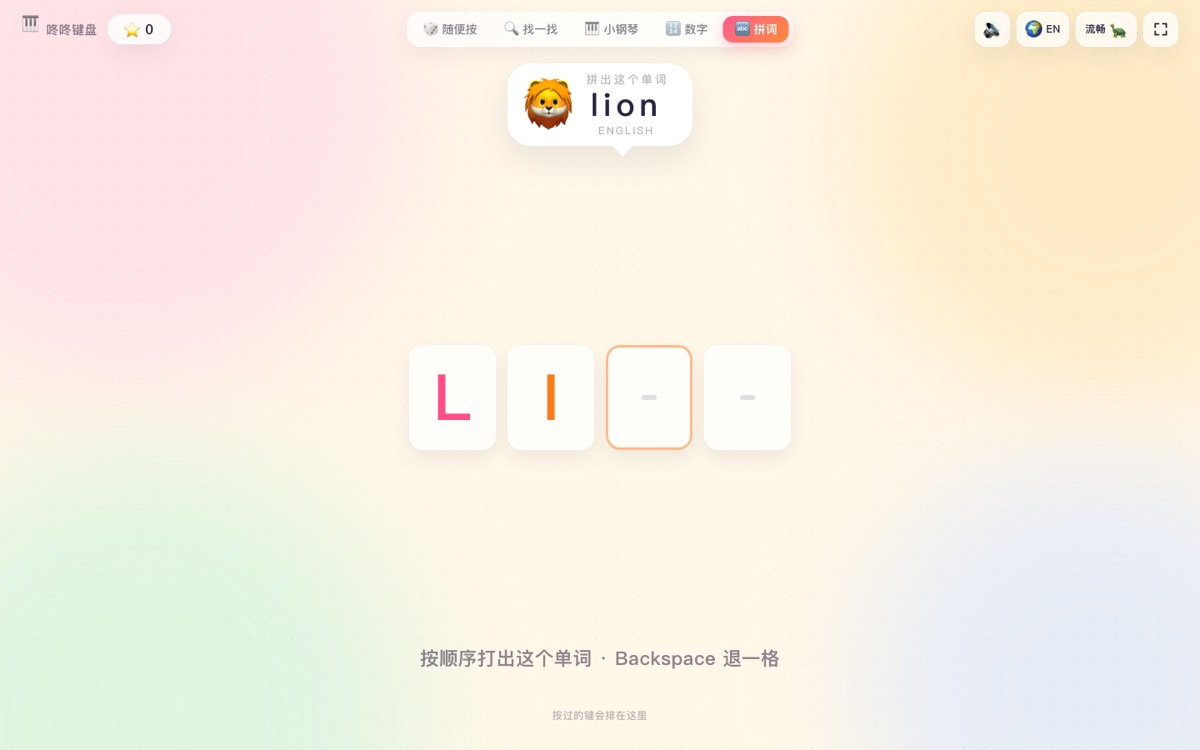
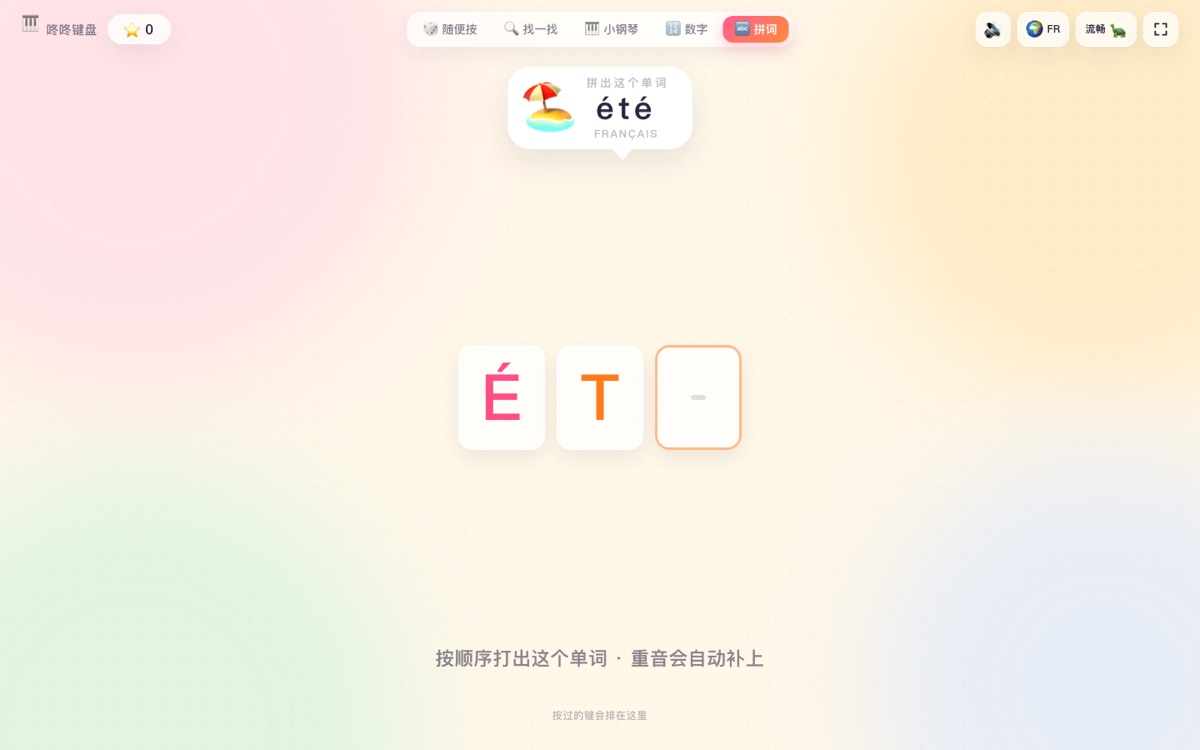
fix: 拼词模式显示法语正确重音
- 法语词库恢复 clé / gâteau / zèbre / forêt / année 等带重音的真实拼写
- 输入仍用去重音后的 A-Z 匹配，字母格自动显示 É / È / Ê / Â / Î / Ç
- 接受带重音的按键；目标朗读和答对朗读都用带重音的单词
- 更新 README 和拼词预览（été）

diff --git a/js/app.js b/js/app.js
@@ -36,6 +36,7 @@
 
   var spellState = {
     word: "",
+    type: "",
     emoji: "",
     lang: "en-US",
     typed: "",
@@ -641,6 +642,26 @@
 
   /* ---------------- 玩法五：拼词 ---------------- */
 
+  function stripAccents(value) {
+    try {
+      return String(value).normalize("NFD").replace(/[\u0300-\u036f]/g, "");
+    } catch (e) {
+      return String(value);
+    }
+  }
+
+  function spellBaseLetter(value) {
+    if (!value) return null;
+    var base = stripAccents(value).toUpperCase();
+    return /^[A-Z]$/.test(base) ? base : null;
+  }
+
+  function spellCaption() {
+    return spellState.word && spellState.word !== spellState.type
+      ? "按顺序打出这个单词 · 重音会自动补上"
+      : "按顺序打出这个单词 · Backspace 退一格";
+  }
+
   function spellSpeechReady() {
     return state.lang !== "off" && !KK.audio.isMuted() && !!KK.speech.voiceFor(spellState.lang);
   }
@@ -650,13 +671,13 @@
     els.spellCap.textContent = msg;
     clearTimeout(spellState.hintTimer);
     spellState.hintTimer = setTimeout(function () {
-      if (!spellState.locked) els.spellCap.textContent = "按顺序打出这个单词 · Backspace 退一格";
+      if (!spellState.locked) els.spellCap.textContent = spellCaption();
     }, 1400);
   }
 
-  function buildSpellSlots(word) {
+  function buildSpellSlots(length) {
     els.spellSlots.innerHTML = "";
-    for (var i = 0; i < word.length; i++) {
+    for (var i = 0; i < length; i++) {
       var slot = document.createElement("span");
       slot.className = "spell-slot";
       if (i === 0) slot.classList.add("is-next");
@@ -667,10 +688,11 @@
   function renderSpellSlots() {
     var slots = els.spellSlots.children;
     var typed = spellState.typed;
+    var display = spellState.word;
 
     for (var i = 0; i < slots.length; i++) {
       var slot = slots[i];
-      var ch = typed.charAt(i);
+      var ch = i < typed.length ? display.charAt(i).toUpperCase() : "";
       slot.textContent = ch;
       slot.classList.toggle("is-filled", !!ch);
       slot.classList.toggle("is-next", !spellState.locked && i === typed.length);
@@ -696,6 +718,7 @@
     } while (word === spellState.word && guard++ < 30);
 
     spellState.word = word;
+    spellState.type = stripAccents(word);
     spellState.emoji = emoji;
     spellState.lang = bank.lang;
     spellState.typed = "";
@@ -709,12 +732,12 @@
     els.spellBig.textContent = "";
     els.spellSlots.hidden = false;
     els.spellSlots.classList.remove("is-wrong");
-    els.spellCap.textContent = "按顺序打出这个单词 · Backspace 退一格";
+    els.spellCap.textContent = spellCaption();
 
-    buildSpellSlots(word);
+    buildSpellSlots(spellState.type.length);
 
     if (spellSpeechReady()) {
-      KK.speech.speak(word, spellState.lang, { delay: 360, rate: 0.85 });
+      KK.speech.speak(spellState.word, spellState.lang, { delay: 360, rate: 0.85 });
     }
   }
 
@@ -759,7 +782,7 @@
       if (spellState.typed.length > 0) {
         spellState.typed = spellState.typed.slice(0, -1);
         renderSpellSlots();
-        els.spellCap.textContent = "按顺序打出这个单词 · Backspace 退一格";
+        els.spellCap.textContent = spellCaption();
         clearTimeout(spellState.hintTimer);
       }
       return;
@@ -768,7 +791,7 @@
     if (k.code === "Delete") {
       spellState.typed = "";
       renderSpellSlots();
-      els.spellCap.textContent = "按顺序打出这个单词 · Backspace 退一格";
+      els.spellCap.textContent = spellCaption();
       clearTimeout(spellState.hintTimer);
       return;
     }
@@ -780,17 +803,16 @@
       return;
     }
 
-    if (!k.key) return;
-
-    if (!/^[A-Z]$/.test(k.key)) {
-      if (/^[0-9]$/.test(k.key)) spellHint("按字母键拼单词哦～");
+    var base = spellBaseLetter(k.key);
+    if (!base) {
+      if (k.key && /^[0-9]$/.test(k.key)) spellHint("按字母键拼单词哦～");
       return;
     }
 
-    var expected = spellState.word.charAt(spellState.typed.length).toUpperCase();
+    var expected = spellState.type.charAt(spellState.typed.length).toUpperCase();
 
-    if (k.key === expected) {
-      spellState.typed += k.key;
+    if (base === expected) {
+      spellState.typed += base;
       renderSpellSlots();
 
       var slot = els.spellSlots.children[spellState.typed.length - 1];
@@ -801,10 +823,10 @@
       }
 
       KK.audio.pop(KK.keymap.noteFor(k.code).freq, true);
-      els.spellCap.textContent = "按顺序打出这个单词 · Backspace 退一格";
+      els.spellCap.textContent = spellCaption();
       clearTimeout(spellState.hintTimer);
 
-      if (spellState.typed.length === spellState.word.length) spellSuccess();
+      if (spellState.typed.length === spellState.type.length) spellSuccess();
       return;
     }
 

diff --git a/js/keymap.js b/js/keymap.js
@@ -120,7 +120,12 @@ KK.keymap = (function () {
       ["mouton", "🐑"], ["singe", "🐵"], ["vache", "🐮"], ["canard", "🦆"], ["banane", "🍌"],
       ["citron", "🍋"], ["cerise", "🍒"], ["fourmi", "🐜"], ["hibou", "🦉"], ["renard", "🦊"],
       ["requin", "🦈"], ["maison", "🏠"], ["jardin", "🌷"], ["sapin", "🎄"], ["nuage", "☁"],
-      ["soleil", "☀"]
+      ["soleil", "☀"],
+      ["clé", "🔑"], ["zèbre", "🦓"], ["boîte", "📦"], ["gâteau", "🍰"], ["étoile", "⭐"],
+      ["école", "🏫"], ["père", "👨"], ["mère", "👩"], ["frère", "👦"], ["chèvre", "🐐"],
+      ["fête", "🎉"], ["forêt", "🌲"], ["île", "🏝"], ["café", "☕"], ["thé", "🍵"],
+      ["vélo", "🚲"], ["métro", "🚇"], ["télé", "📺"], ["tête", "🧑"], ["année", "📅"],
+      ["leçon", "📚"], ["garçon", "👦"], ["noël", "🎅"], ["maïs", "🌽"], ["été", "🏖"]
     ]
   };
 

diff --git a/README.md b/README.md
@@ -62,6 +62,9 @@
 每个单词的「插图」就是 emoji，**不需要单独准备图片**，项目里没有图片资源。
 英语 / 法语各有一套词库：选 Français 时用法语词，其他语言用英语词；单词下面会标 `English` / `Français`。
 
+**法语单词按正确拼写显示**：`clé`、`gâteau`、`zèbre`、`forêt`、`été`……  
+键盘输入不区分重音，按 `C-L-E` 就能拼 `clé`，字母格会自动填成 `É`；按带重音的键也认。
+
 ![拼词](preview-spell.jpg)
 
 ## 🗣 按字母 / 数字朗读
@@ -163,6 +166,7 @@ keyboard-kids/
 - 巨字用 JS 测量后自适应，横屏、竖屏、超宽屏、投影仪都不会溢出；窗口缩放会重新排。
 - 粒子用一个 canvas + 单个 rAF，粒子落完自动停，不空转。
 - 拼词的「插图」全部是 emoji，没有图片文件；词库直接写在前端，离线可用。
+- 法语词库保存带重音的正确拼写；输入时用去重音后的 A–Z 匹配，字母格显示带重音的字母（É/È/Ê/Â/Î/Ç…）。
 - **老电视兼容**：没有用 `inset` 简写（改用 `top/right/bottom/left`），关键尺寸都带 `clamp()` 降级值，`100dvh` 放在 `@supports` 里，flex 间距用 margin 而不是 `gap`。
 - 支持 `prefers-reduced-motion`，并会自动识别 SmartTV / Tizen / webOS 等 UA。
 
